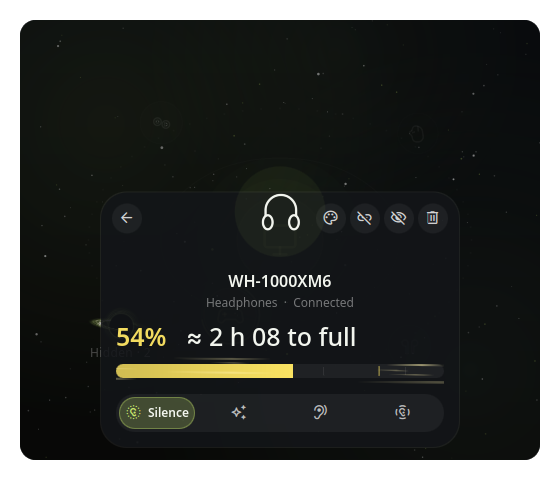
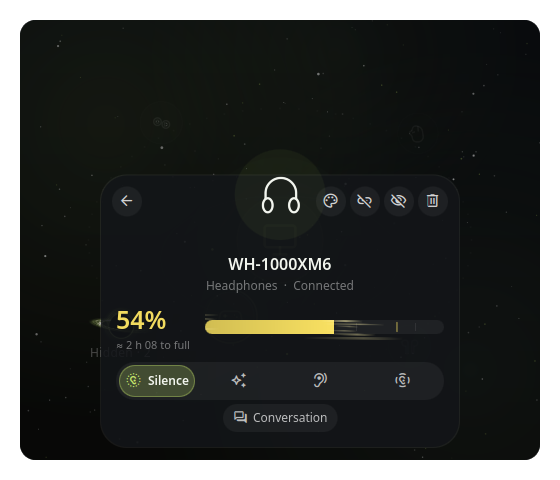
Release 1.1.0: noise control, black hole, time left
README: noise control (13 brands, tested status per brand, engine, privacy,
credits), black hole styles, time left, new IPC commands and settings,
tests. plugin.json: version 1.1.0 and the "process" permission (the
noise-control helper). New noise-control screenshot from mock data.

diff --git a/OrbitBluetoothSettings.qml b/OrbitBluetoothSettings.qml
@@ -106,7 +106,7 @@ PluginSettings {
     ToggleSetting {
         settingKey: "ancEnabled"
         label: "Headphone noise control"
-        description: "Noise cancelling, ambient sound and more for Sony, AirPods/Beats, Nothing, Galaxy Buds, Bose and Soundcore (needs python3)"
+        description: "Noise cancelling, ambient sound and more for Sony, AirPods/Beats, Galaxy Buds, Bose, Nothing, Soundcore, Huawei/Honor, Oppo/OnePlus/realme, Redmi, EarFun, Moondrop, Haylou and 1MORE (needs python3)"
         defaultValue: true
     }
 

diff --git a/README.md b/README.md
@@ -39,6 +39,7 @@ disconnect it. Charging devices receive a beam of energy from the core.
 | Quickshell | 0.3 or newer (ships with DMS) |
 | BlueZ | any recent version, adapter powered on |
 | UPower | optional, gives real charging states for devices that report one |
+| Python 3 | optional, standard library only: headphone noise control |
 
 ## Installation
 
@@ -151,7 +152,53 @@ The card shows:
 - name, type and state (connected, paired, available)
 - connection time and battery level
 - actions: change icon, connect or disconnect, hide, forget (asks twice)
-- battery gauge, session chart and stats (next section)
+- battery gauge, session chart and stats (see below)
+- noise control, for supported headphones (next section)
+
+## Noise control
+
+Supported headphones get a mode selector in their detail card, a halo in
+the orbit (solid: cancelling, dotted: ambient) and the modes in their
+right-click menu. Only what the model supports is shown: noise cancelling,
+adaptive, ambient (transparency) and off, the ambient level, voice focus,
+conversation detection and the left/right/case batteries.
+
+![Noise control in the detail card](screenshots/noise-control.png)
+
+| Brand | Models | Tested on hardware |
+| --- | --- | --- |
+| Sony | WH-1000XM3 to XM6, WF-1000XM3 to XM5, LinkBuds, WH-CH720N, ULT WEAR… | Yes (WH-1000XM6) |
+| Apple | AirPods Pro, AirPods 4, AirPods Max, Beats with noise control | No (untested) |
+| Samsung | Galaxy Buds, Buds+, Live, Pro, Buds2 to Buds4 (Pro, FE, Core) | No (untested) |
+| Bose | QC35 / QC35 II, NC700, QC45, QC Ultra, QC Headphones | No (untested) |
+| Nothing / CMF | Ear (1), (2), (3), (a), Headphone (1), CMF Buds and Headphone Pro | No (untested) |
+| Anker Soundcore | Life Q30/Q35, Liberty Air 2 Pro, Space Q45, others with the common layout | No (untested) |
+| Huawei / Honor | FreeBuds 4i to 6i, Pro to Pro 5, SE 4, Studio, FreeLace Pro, FreeClip, Honor Earbuds 2 | No (untested) |
+| Oppo / OnePlus / realme | realme Buds T200 and Air6 Pro; other Enco/realme/OnePlus models are probed | No (untested) |
+| Xiaomi | Redmi Buds 3 Pro, 4 Active, 5 Pro, 6 (Pro, Lite, Active), 8 Active | No (untested) |
+| EarFun | Air Pro 4, Air S, Free Pro 3 | No (untested) |
+| Moondrop | Space Travel 2, Space Travel 2 Ultra | No (untested) |
+| Haylou | S35 ANC (mode can be set, not read) | No (untested) |
+| 1MORE | SonoFlow, SonoFlow SE | No (untested) |
+
+Untested brands follow their protocol documentation byte for byte and are
+covered by unit tests, but have not met a real headset yet. If yours does
+not answer, it simply shows no noise control; reports are welcome. Not
+supported (no reliable public documentation): Jabra, JBL, Sennheiser,
+Marshall, Google Pixel Buds.
+
+How it works: QML cannot open a Bluetooth socket, so a small helper
+(`anc/orbit_anc.py`, Python standard library only) talks to the headset.
+The **Engine** setting decides when it runs:
+
+- **On demand** (default): only while a headset card or menu is open, or for
+  the second it takes to apply a command. Nothing runs otherwise.
+- **Always connected**: one session per connected headset, so changes made
+  with the headset's own buttons show up live (a small idle process).
+
+Some headsets cannot report every mode when asked (the WH-1000XM6 reads
+"noise cancelling" and "off" the same way); Orbit then keeps the last mode
+it set or saw.
 
 ## Charging and battery data
 
@@ -201,6 +248,9 @@ The card's footnote always says which source is in use.
 Bind these to keys in your compositor:
 
 ```sh
+dms ipc call orbitBluetooth anc nc       # nc, ambient, off or adaptive (first supported headset)
+dms ipc call orbitBluetooth ancCycle     # next noise-control mode
+dms ipc call orbitBluetooth ancStatus    # current noise-control state (JSON)
 dms ipc call orbitBluetooth hidden       # list hidden devices
 dms ipc call orbitBluetooth unhideAll    # bring every hidden device back
 ```
@@ -220,6 +270,9 @@ dms ipc call orbitBluetooth unhideAll    # bring every hidden device back
 | Star density | Normal | Low, Normal or High |
 | Desktop backdrop | 72% | Depth of the veil behind the desktop widget |
 | Ambient motion on desktop | off | Keep orbits moving when the pointer is away |
+| Black hole style | Black hole | Realistic, or "Three-dimensional shadow of a four-dimensional bubble" (tesseract) |
+| Headphone noise control | on | Controls supported headphones (needs Python 3) |
+| Engine | On demand | When the noise-control helper runs (see *Noise control*) |
 | Sounds | off | Short cues on snap, connect and disconnect |
 | Sound volume | 60% | |
 
@@ -248,7 +301,11 @@ replaced by `_`.
 
 ## Privacy
 
-- No network access, no telemetry, no external processes.
+- No network access, no telemetry.
+- The only process is the noise-control helper (Python, standard library):
+  it opens a local Bluetooth socket to your headset and nothing else, only
+  while needed (see *Noise control*). Set `ORBIT_ANC_DEBUG=1` to see its raw
+  packets on stderr; nothing is ever logged to a file.
 - Connection times and battery history live in memory for the current
   session only. They are never written to disk.
 - The only files read are the sysfs `uevent` of kernel batteries, once each,
@@ -280,6 +337,11 @@ devices** is on, and the orbit keeps at most **Devices in orbit** entries.
 its level has not risen yet. The estimate starts after the first level
 increase.
 
+**Noise control does not appear.** The headset must be connected and its
+brand supported (see *Noise control*); Python 3 must be installed. Close and
+reopen the card to retry: after an error the helper stays quiet instead of
+retrying in a loop.
+
 **A device vanished.** It may be in the black hole: click it, or use
 **Show all hidden devices** in the settings, or
 `dms ipc call orbitBluetooth unhideAll`.
@@ -306,7 +368,15 @@ orbitBluetooth/
 │   ├── OrbitMenu.qml            # right-click menu
 │   ├── BatteryCard.qml          # gauge, chart and stat tiles
 │   ├── Charge.js                # charge analysis and color ramp (pure)
+│   ├── Endurance.js             # rated battery life per model (time-left estimate)
+│   ├── AncService.qml, AncPanel.qml, Anc.js   # noise control (runs the helper)
 │   ├── Starfield.qml, Vignette.qml, DeviceGlyph.qml, …
+├── anc/
+│   ├── orbit_anc.py             # noise-control helper (stdin/stdout JSON session)
+│   ├── sdp.py                   # minimal SDP client (finds RFCOMM channels)
+│   ├── protocols/               # one module per brand + shared checksums
+│   └── tests/                   # unittest: frames, checksums, each brand
+├── tests/anc.test.js            # gjs: brand detection, modes, time left
 ├── shaders/                     # gargantua.frag, tesseract.frag + compiled .qsb, build.sh
 ├── scripts/
 │   ├── gen_sounds.py            # synthesizes sounds/*.wav (stdlib only)
@@ -331,11 +401,27 @@ Recompile the shaders after editing a `shaders/*.frag` file (needs Qt's
 shaders/build.sh
 ```
 
+Run the tests:
+
+```sh
+(cd anc && python3 -m unittest discover -s tests -t .)
+gjs tests/anc.test.js
+```
+
 Regenerate the sounds:
 
 ```sh
 python3 scripts/gen_sounds.py
 ```
+
+## Credits
+
+The noise-control protocols were written from the public documentation and
+reverse-engineering notes of these projects (protocols reimplemented, no
+code copied): Gadgetbridge, SonyHeadphonesClient (mos9527), XMDeck,
+LibrePods, MagicPodsCore, GalaxyBudsClient, based-connect, bosectl,
+OpenSCQ30, OpenFreebuds, EarA-linux, earctl and cmfctl. SAFER+ follows the
+Bluetooth Core specification.
 
 ## License
 
